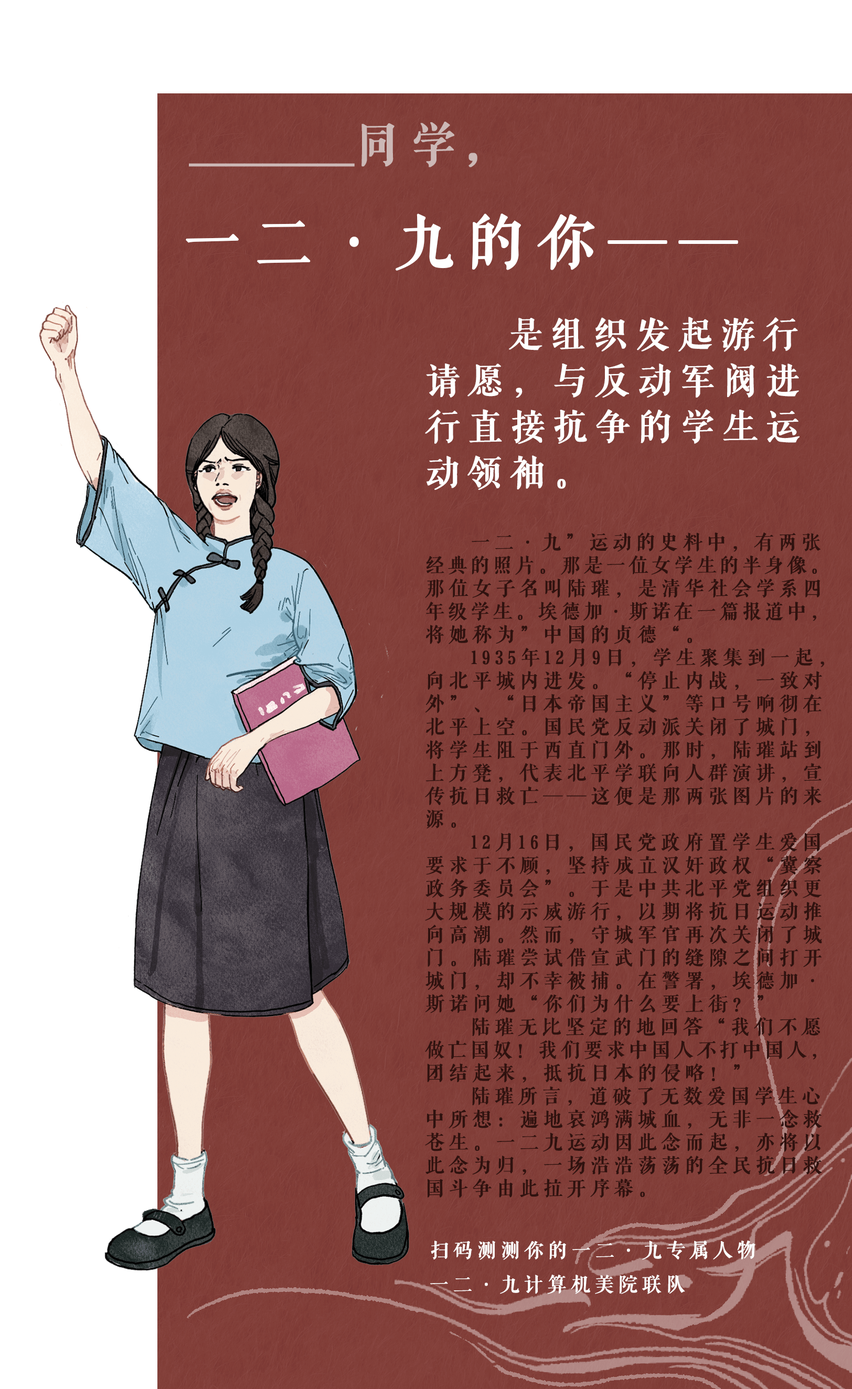
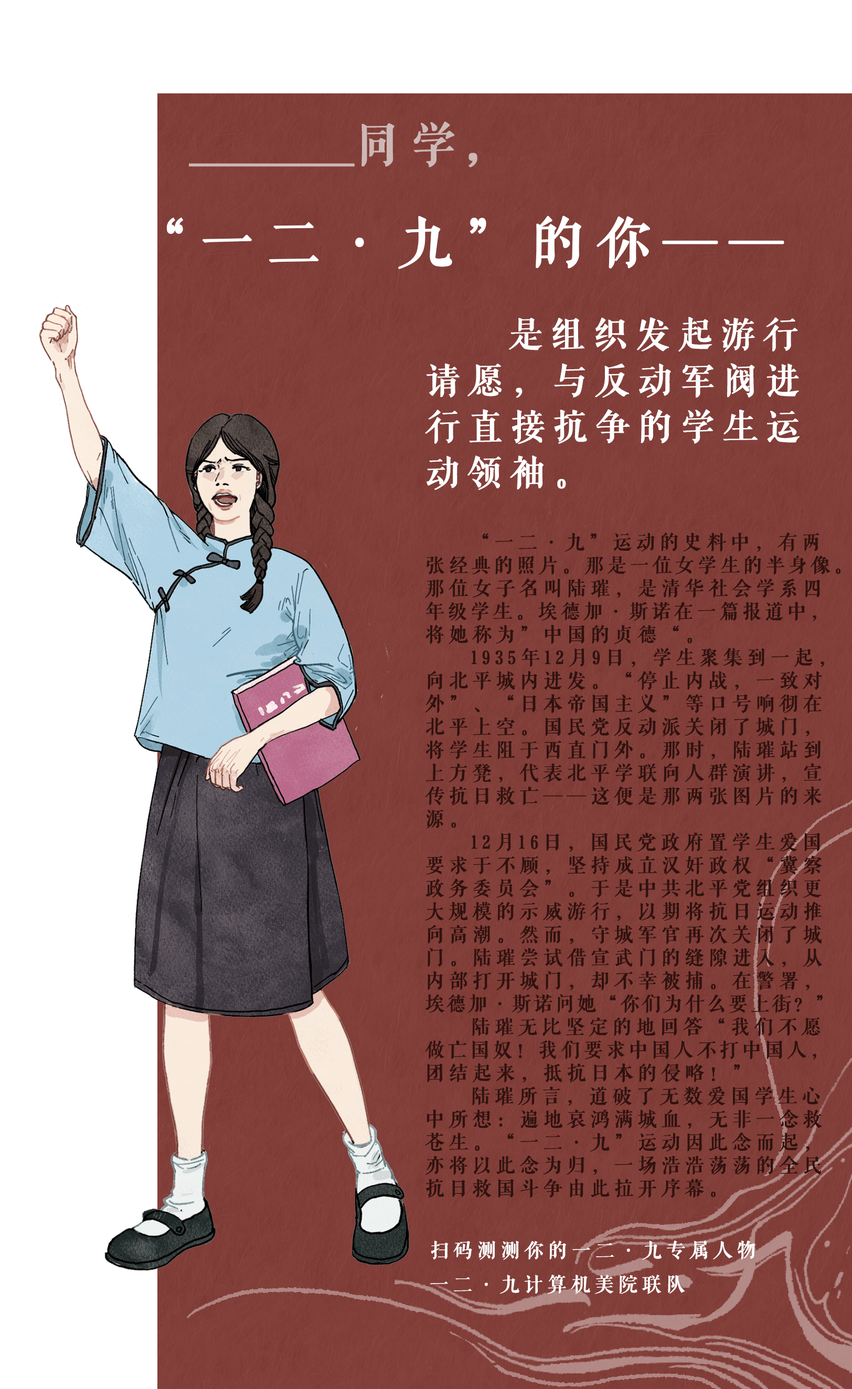
update text and pics

diff --git a/src/game/Text.tsx b/src/game/Text.tsx
@@ -55,13 +55,7 @@ const QUESTIONS : Array<Question>= [
                 }
             },
             {
-                option: "觉得跟自己关系不大",
-                next: (curr: ScoreSheet)=> {
-                    return { Class1: curr.Class1 - 1, Class2: curr.Class2, next: 3}
-                }
-            },
-            {
-                option: "想起还有DDL，溜了溜了",
+                option: "感觉与自己关系并不大，还是努力学习最重要",
                 next: (curr: ScoreSheet)=> {
                     return { Class1: curr.Class1 - 1, Class2: curr.Class2, next: 3}
                 }
@@ -78,7 +72,7 @@ const QUESTIONS : Array<Question>= [
         question: "北平学联成员正在派发传单，号召同学进行游行请愿，反对一切伪组织、伪自治。你：",
         options: [
             {
-                option: "正在与对象约会，回头再看吧",
+                option: "马上去上课了，下次再看！",
                 next: (curr: ScoreSheet)=> {
 					const next = curr.Class1-1> 0 ? (4) : (6)
                     return { Class1: curr.Class1 - 1, Class2: curr.Class2, next }
@@ -131,7 +125,7 @@ const QUESTIONS : Array<Question>= [
         ]
     },
 	{
-        question: "一二九运动落幕，校方和老师着手组织恢复教学，否则会对学生进行退学处理。你的态度是：",
+        question: "“一二·九”运动落幕，校方和老师着手组织恢复教学，否则会对学生进行退学处理。你的态度是：",
         options: [
             {
                 option: "目标没有实现，坚持停课，抗争到底 ",
@@ -156,7 +150,7 @@ const QUESTIONS : Array<Question>= [
         ]
     },
 	{
-        question: "一二九期间你目睹了很多事，对中国的社会现实有了更深入的了解。其中你印象最深刻的是：",
+        question: "“一二·九”期间你目睹了很多事，对中国的社会现实有了更深入的了解。其中你印象最深刻的是：",
         options: [
             {
                 option: "军警暴力镇压学生运动，致使数百人受伤",
@@ -171,7 +165,7 @@ const QUESTIONS : Array<Question>= [
                 }
             },
             {
-                option: "我是谁？我在哪？我什么都不记得了",
+                option: "具体细节印象不深了",
                 next: (curr: ScoreSheet)=> {
                     return { Class1: curr.Class1 , Class2: curr.Class2, next: 105}
                 }
@@ -179,7 +173,7 @@ const QUESTIONS : Array<Question>= [
         ]
     },
 	{
-        question: "一二九运动对你产生极大触动，深深影响了你未来的职业规划，你决定：",
+        question: "“一二·九”运动对你产生极大触动，深深影响了你未来的职业规划，你决定：",
         options: [
             {
                 option: "深耕学术，用知识缝制铠甲将来披甲上阵",
@@ -196,7 +190,7 @@ const QUESTIONS : Array<Question>= [
                 }
             },
             {
-                option: "尚不明确，努力活着才能为祖国健康工作五十年",
+                option: "尚不明确，努力锻炼，为祖国健康工作五十年",
                 next: (curr: ScoreSheet)=> {
                     return { Class1: curr.Class1 , Class2: curr.Class2, next: 105}
                 }
